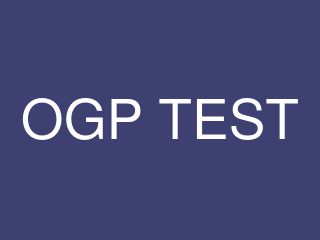
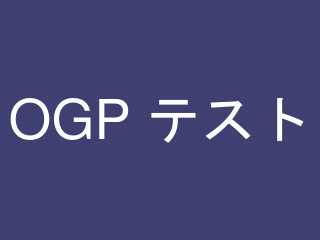
feat: OGP更新

Changed region(s): [[0.4688, 0.4083, 0.9688, 0.6125], [0.0312, 0.4083, 0.4375, 0.5833]]

diff --git a/ogptest/index.html b/ogptest/index.html
@@ -9,7 +9,7 @@
     <meta property="og:description" content="OGPTEST" />
     <meta
       property="og:image"
-      content="https://kelp-shi.github.io/mappi.github.io/ogptest/img/ogpsample.png?v=1"
+      content="https://kelp-shi.github.io/mappi.github.io/ogptest/img/ogpsample.png?v=2"
     />
     <meta property="og:url" content="https://example.com/article" />
 
@@ -19,7 +19,7 @@
     <meta name="twitter:description" content="OGPTEST" />
     <meta
       name="twitter:image"
-      content="https://kelp-shi.github.io/mappi.github.io/ogptest/img/ogpsample.png?v=1"
+      content="https://kelp-shi.github.io/mappi.github.io/ogptest/img/ogpsample.png?v=2"
     />
   </head>
   <body>
